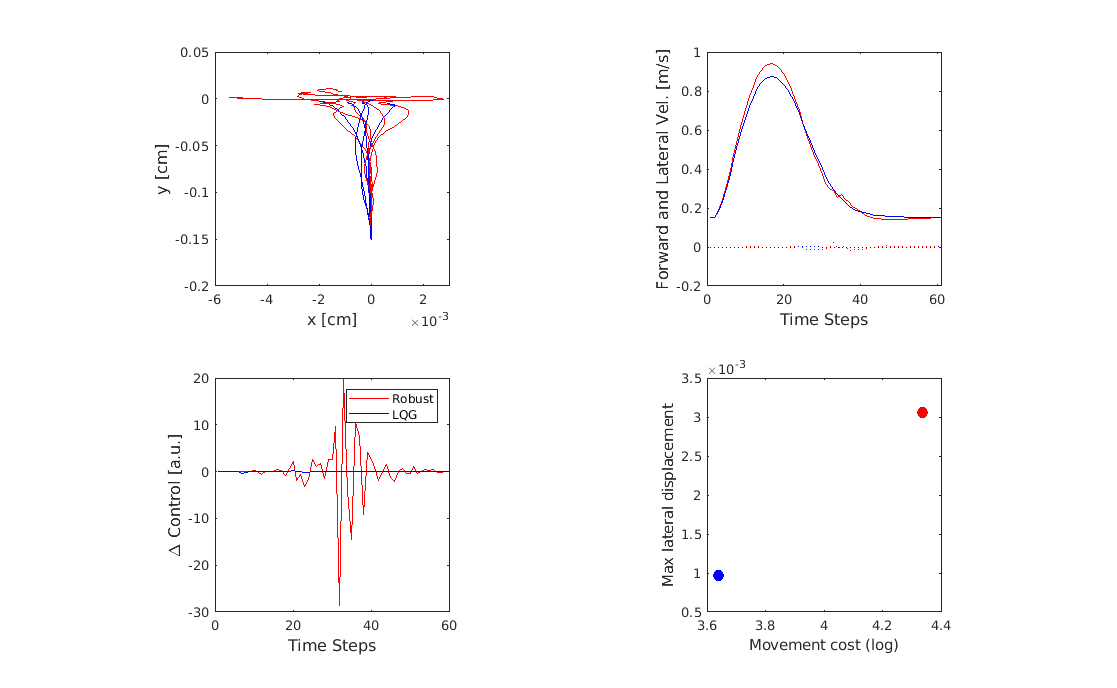
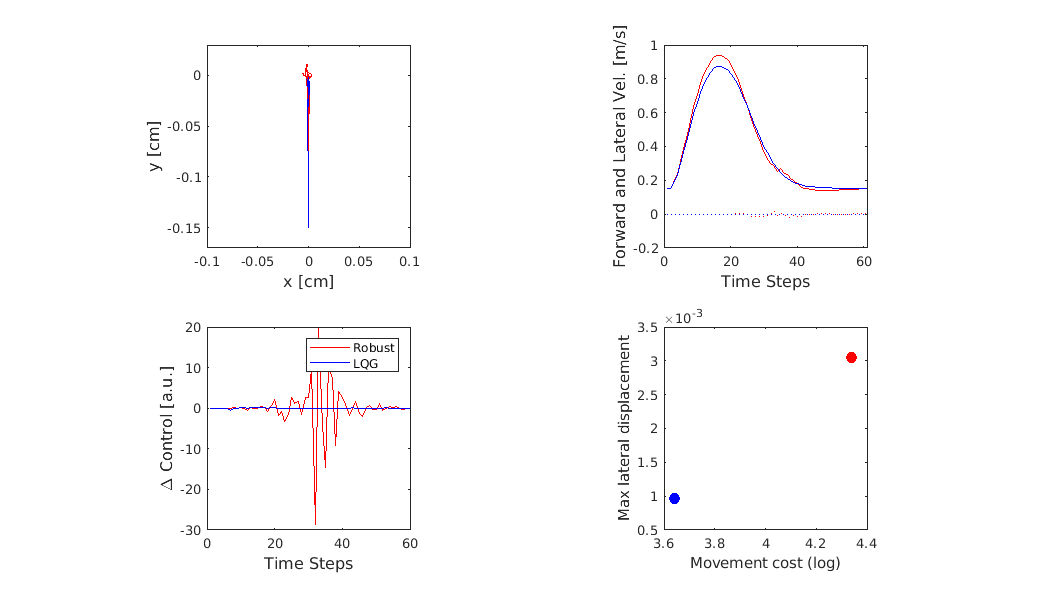
readme updated with additional information from F Crevecoeur and default screenshot provided.

diff --git a/readme.html b/readme.html
@@ -8,4 +8,14 @@
   <br/>
   on the matlab command prompt.  After a short while a figure related to figure 1 in the paper will appear:<p/>
   <img src="./screenshot.png" width="650">
+  <p/>
+  In the figure of the paper we display simulation with and without lateral perturbations, which is encoded with a parameter “load” in the script.  The screenshot is for simulations without perturbation (only noise).
+<p/>
+In the paper, we show 5 or 10 simulations and then averaged some parameters (like the cost computed at each run) across 100 or so. As is the routine does not automatically compute averages across several simulations.
+  <p/>
+  Please contact F Crevecoeur for any questions.
+  <p/>
+
+  20190924 readme updated with additional information from F
+  Crevecoeur and default screenshot provided.
 </html>
